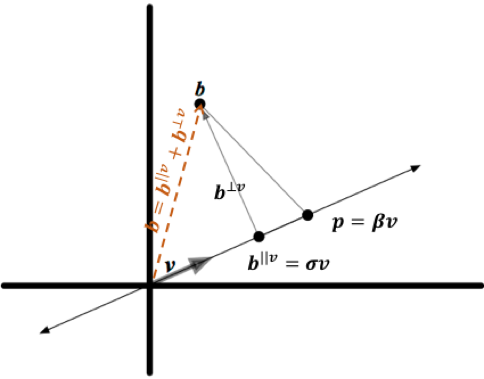
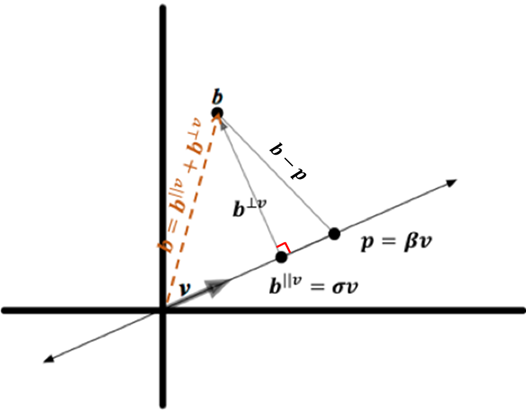
Chap09 - 내적(Inner Product)

diff --git a/LinearAlgebra/CodingTheMatrix/Chap09 - The Inner Product/Chap09-The_Inner_Product.md b/LinearAlgebra/CodingTheMatrix/Chap09 - The Inner Product/Chap09-The_Inner_Product.md
@@ -154,3 +154,89 @@ $$
 
 ![](./images/orthogonal02.png)
 
+
+
+### 9.3.3 *소방차* 문제에 대한 해의 직교 성질
+
+***Lemma (Fire Engine Lemma)*** : $b$ 와 $v$ 는 벡터라고 하면, $b$ 에 가장 가까운 Span $\{v\}$ 내의 점은 $b^{||v}$ 이고, 그 거리는 $||b^{\bot v}||$ 이다.
+
+- **Proof** : 
+
+![](./images/orthogonal03.png)
+
+- $p$ 는 $L =$ Span $\{v\}$ 상의 임의의 점이라 하자. 세 점 $p, b^{||v}, b$ 는 삼각형을 형성한다. $p$ 에서 $b^{||v}$ 로의 화살표는 $b^{||v}-p$ 이다. $b^{||v}$ 에서 $b$ 로의 화살표는 $b-b^{||v}$ 이며 이것은 $b^{\bot v}$ 이다. $p$ 에서 $b$ 로의 화살표는 $b-p$ 이다.
+- $b^{||v}$ 와 $p$ 는 둘 다 $L$ 상에 있으므로, 이 둘은 $v$ 의 배수이고, 이 둘의 차분인 $b^{||v}-p$  또한 $v$ 의 배수이다. $b-b^{||v}$ 은 $v$ 와 직교하므로 이것은 9.3.1의 Orthogonality Property Lemma에 의해 $b^{||v}-p$ 와 또한 직교한다. 이를 피타고라스 정리에 의하면 다음이 성립한다.
+
+$$
+||b-p||^2 = ||b^{||v} - p||^2 + ||b- b^{||v}||^2
+$$
+
+- 만약 $p \neq b^{||v}$ 이면 $||b^{||v}-p||^2 > 0$ 이고, 따라서 $|| b - b^{||v} || < ||b - p||$ 이다.
+
+
+
+### 9.3.4 투영 및 가장 가까운 점 찾기
+
+위의 9.3.3 의 그림에서 $\left< b^{\bot v}, v \right> = 0$ 이다. $b^{\bot v} = b - b^{||v}$ 이므로 $\left< b^{\bot v}, v \right> = \left< b-b^{||v}, v \right> = 0$ 이다. 또한, $b^{||v} = b - \sigma$ 이므로 $\left< b^{\bot v}, v \right> = \left< b-b^{||v}, v \right> = \left< b-\sigma v, v \right> = 0$ 이다. 이를 다음과 같이 표현할 수 있다.
+$$
+\left< b, v \right> - \sigma \left< v, v \right> = 0
+$$
+$\sigma$에 대해 풀면 다음과 같다.
+$$
+\sigma = \frac{\left< b, v \right>}{\left< v, v \right>}
+$$
+$||v||=1$ 인 경우, 다음과 같다. 
+$$
+\sigma = \left< b, v \right>
+$$
+***Lemma*** : 임의의 실수 벡터 $b$ 와 $v$ 에 대해,
+
+- $b - \sigma v$ 가 $v$ 에 직교하는 $\sigma$ 가 존재한다.
+- Span $\{v\}$ 상에 있으며, $||b-p||$ 를 최소화하는 점 $p$ 는 $\sigma v$ 이다.
+- $\sigma$ 의 값은 $\frac{\left< b, v \right>}{\left< v, v \right>}$ 이다.
+
+
+
+파이썬 코드를 이용해 $v$ 의 생성(Span)에 대한 $b$ 의 투영(projection)을 반환하는 함수를 구현해보자. 아래 코드에서 `1e-20` 부분은 벡터 $v$가 아주 작은값(여기서는 $10^{-20}$) 보다 작거나 같으면 $v$ 는 영벡터라고 간주해주기 위한 부분이다.
+
+```python
+def project_along(b, v):
+    bv = 0
+    vv = 0
+    for u, w in zip(b, v):
+        bv += u*w
+    for u,w in zip(v, v):
+        vv += u*w
+    
+    sigma = (bv / vv) if vv > 1e-20 else 0
+    return [sigma*e for e in v]
+
+>>> b = [2, 4]
+>>> v = [6, 2]
+>>> project_along(b, v)
+[3.0, 1.0]
+```
+
+
+
+### 9.3.5 *소방차* 문제에 대한 솔루션
+
+이제 9.1에서 봤던 소방차 문제에 대한 그림을 다시 보자.
+
+![](./images/fire_engine.png)
+
+이 문제에서 $v = [6, 2]$ 이고, $b=[2, 4]$ 이다. 직선 $\{\alpha v : \alpha \in \mathbb{R} \}$ 위에 있는 가장 가까운 점은 $\sigma v$ 이며, $\sigma$ 는 다음과 같다.
+$$
+\begin{eqnarray} \sigma  & = & \frac { v\cdot b }{ v\cdot v }  \\  & = & \frac { 6\cdot 2+2\cdot 4 }{ 6\cdot 6+2\cdot 2 }  \\  & = & \frac { 20 }{ 40 }  \\  & = & \frac { 1 }{ 2 }  \end{eqnarray}
+$$
+따라서, $b$ 에 가장 가까운 점은 $\frac{1}{2} [6, 2] = [3, 1]$ 이다. $b$ 까지의 거리는 $||[2,4]-[3,1]|| = ||[-1, 3|| = \sqrt{10}$ 이다.
+
+
+
+### 9.3.6 외적(Outer product)과 투영
+
+벡터 $u$ 와 $v$ 의 *외적* 은 행렬-행렬 곱 $uv^{T}$ 으로 정의된다.
+$$
+\begin{bmatrix}  \\ u \\  \end{bmatrix}\begin{bmatrix}  & v^{ T } &  \end{bmatrix}
+$$
+
